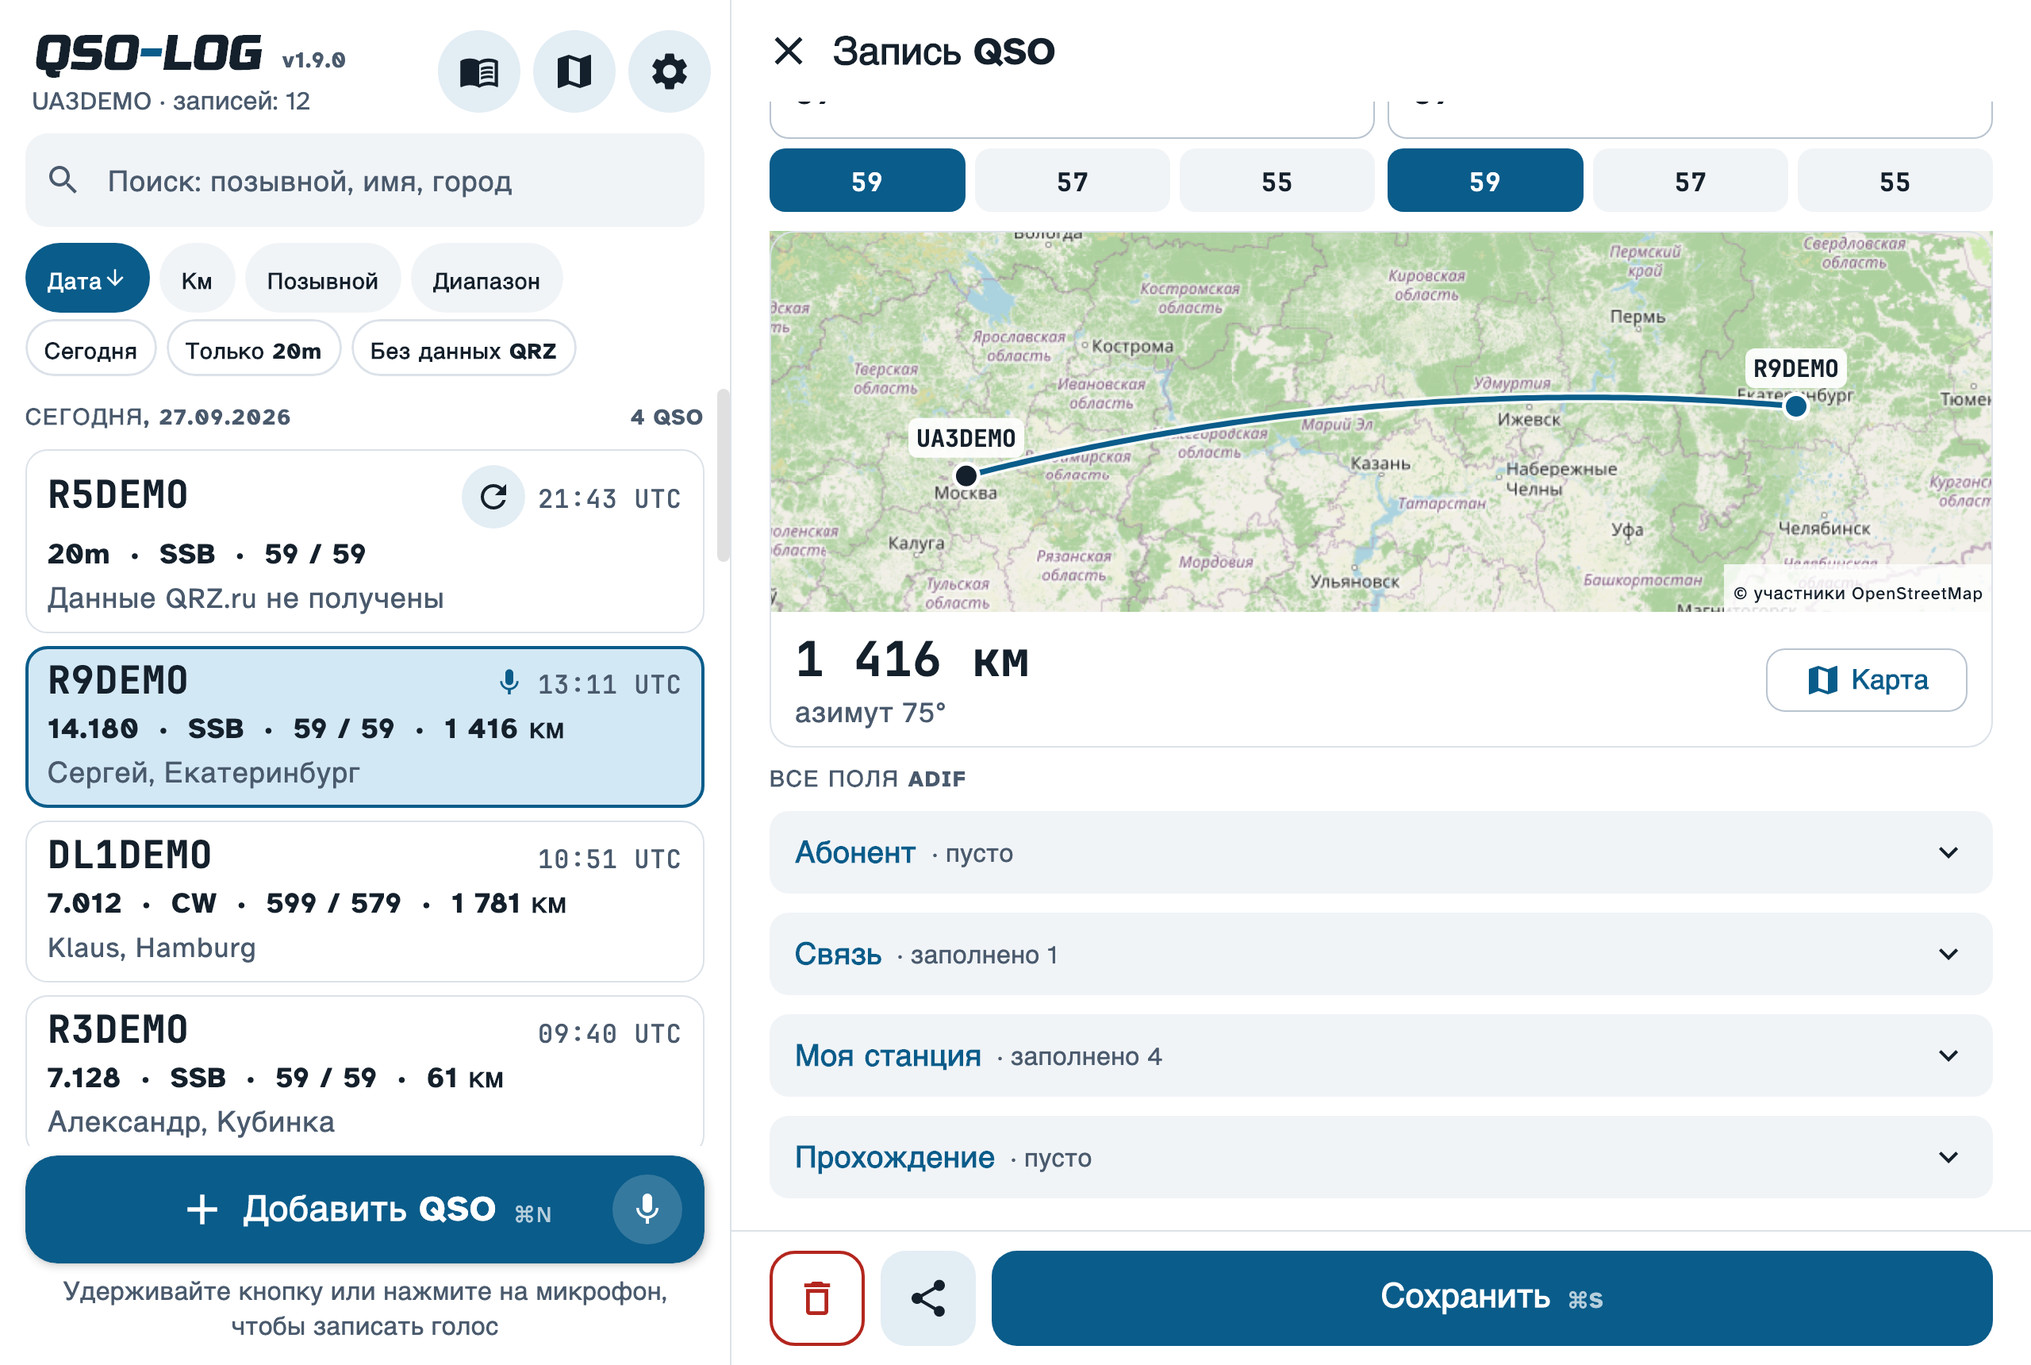
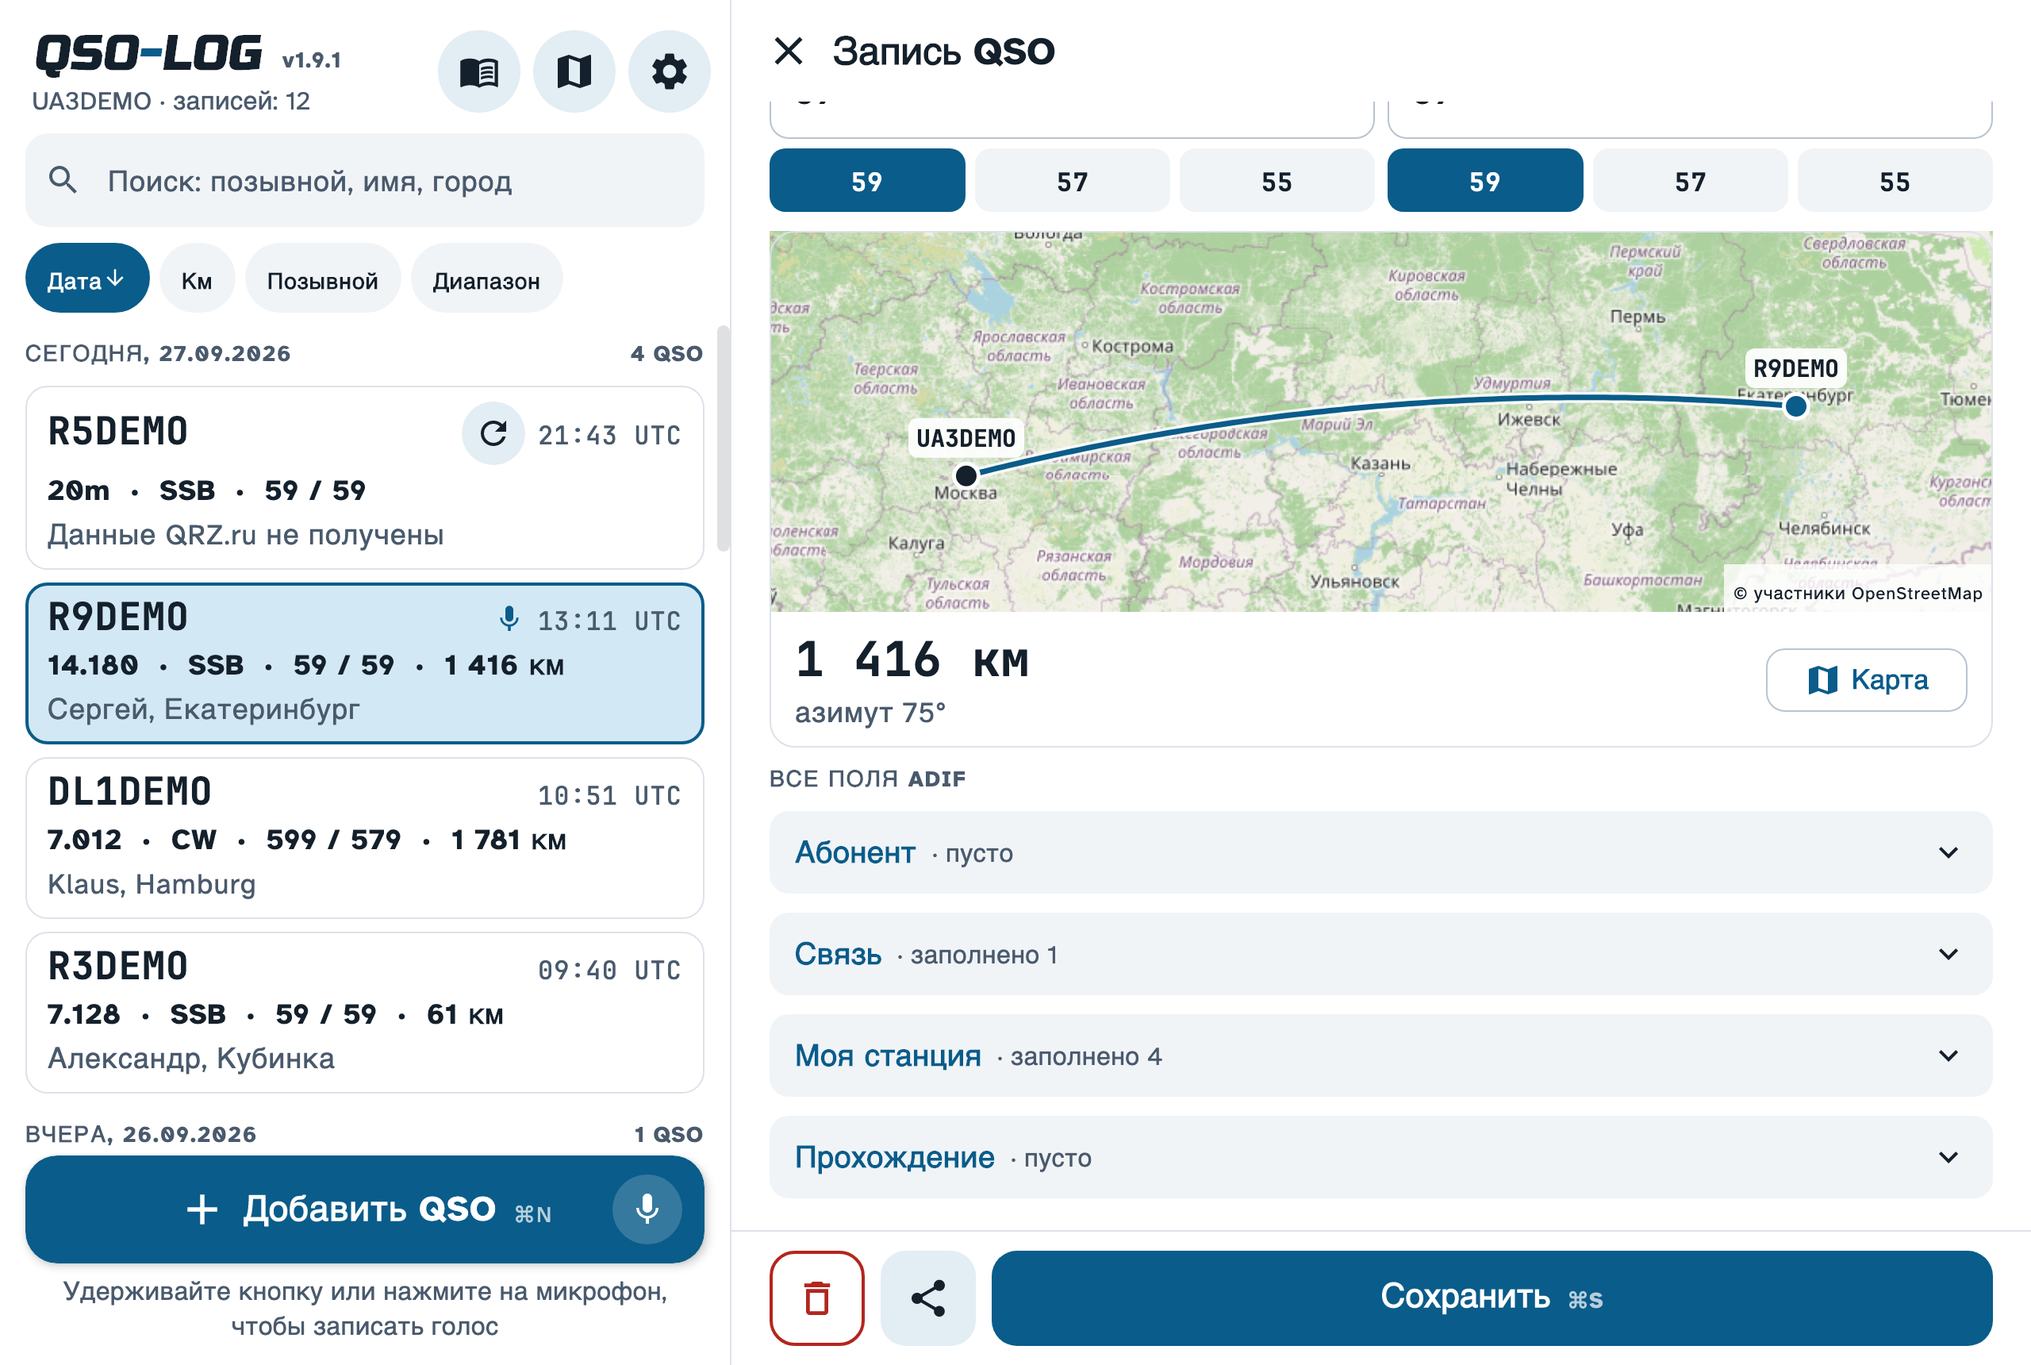
Android 0.24.1, desktop 1.9.1: log keeps only the sort buttons, quick filters removed

Changed region(s): [[0.0, 0.2465, 0.375, 0.8628], [0.3125, 0.8012, 0.3438, 0.832]]

diff --git a/app/src/main/java/ru/r3xed/qsolog/ui/LogScreen.kt b/app/src/main/java/ru/r3xed/qsolog/ui/LogScreen.kt
@@ -3,7 +3,6 @@ package ru.r3xed.qsolog.ui
 import androidx.compose.material.icons.automirrored.filled.MenuBook
 import ru.r3xed.qsolog.tr
 import androidx.compose.material.icons.filled.Check
-import ru.r3xed.qsolog.LogFilter
 import androidx.activity.compose.BackHandler
 import androidx.compose.ui.unit.TextUnit
 import androidx.compose.ui.text.rememberTextMeasurer
@@ -165,8 +164,6 @@ fun LogScreen(
             )
 
             if (vm.qsos.isEmpty()) {
-                // A filter that left nothing: keep the bar so it can be switched off.
-                if (vm.filters.isNotEmpty()) SortBar(vm)
                 Box(Modifier.weight(1f)) { EmptyLog(vm) }
             } else {
                 SortBar(vm)
@@ -201,10 +198,7 @@ fun LogScreen(
 private fun EmptyLog(vm: AppViewModel) {
     val x = LocalExtra.current
     Column(Modifier.fillMaxWidth().padding(32.dp), verticalArrangement = Arrangement.spacedBy(8.dp)) {
-        if (vm.query.isBlank() && vm.filters.isNotEmpty()) {
-            Text(tr("Под выбранные фильтры записей нет"), style = MaterialTheme.typography.titleLarge)
-            Text(tr("Снимите фильтр кнопкой над списком."), style = MaterialTheme.typography.bodyLarge, color = x.muted)
-        } else if (vm.query.isNotBlank()) {
+        if (vm.query.isNotBlank()) {
             Text(tr("В вашем журнале ничего не найдено"), style = MaterialTheme.typography.titleLarge)
             // A callsign-like search goes on to QRZ.ru; a found station opens a new card by itself.
             when (val s = vm.searchLookup) {
@@ -282,7 +276,6 @@ private fun groupAndSort(list: List<Qso>, by: SortBy, desc: Boolean): List<Group
 @Composable
 private fun SortBar(vm: AppViewModel) {
     val x = LocalExtra.current
-    Column {
     Row(
         Modifier.fillMaxWidth().horizontalScroll(rememberScrollState()).padding(horizontal = 16.dp, vertical = 4.dp),
         horizontalArrangement = Arrangement.spacedBy(6.dp),
@@ -310,35 +303,6 @@ private fun SortBar(vm: AppViewModel) {
                 }
             }
         }
-    }
-    // Quick filters: a second row under the sort buttons.
-    Row(
-        Modifier.fillMaxWidth().horizontalScroll(rememberScrollState()).padding(start = 16.dp, end = 16.dp, bottom = 4.dp),
-        horizontalArrangement = Arrangement.spacedBy(6.dp),
-    ) {
-        LogFilter.entries.forEach { flt ->
-            val band = vm.currentBand
-            if (flt == LogFilter.BAND && band.isBlank()) return@forEach
-            val label = if (flt == LogFilter.BAND) tr("Только %s", band) else flt.label
-            val on = flt in vm.filters
-            val fg = if (on) MaterialTheme.colorScheme.onSecondaryContainer else MaterialTheme.colorScheme.onSurface
-            Row(
-                Modifier.height(36.dp)
-                    .clip(RoundedCornerShape(18.dp))
-                    .background(if (on) MaterialTheme.colorScheme.secondaryContainer else Color.Transparent)
-                    .border(1.5.dp, if (on) MaterialTheme.colorScheme.secondary else x.line, RoundedCornerShape(18.dp))
-                    .clickable(onClickLabel = if (on) tr("Снять фильтр: %s", label) else tr("Фильтр: %s", label)) { vm.toggleFilter(flt) }
-                    .padding(horizontal = 12.dp),
-                verticalAlignment = Alignment.CenterVertically,
-            ) {
-                if (on) {
-                    Icon(Icons.Filled.Check, null, Modifier.size(16.dp), tint = fg)
-                    Spacer(Modifier.width(4.dp))
-                }
-                Text(label, fontSize = 14.sp, fontWeight = FontWeight.Bold, color = fg, maxLines = 1, softWrap = false)
-            }
-        }
-    }
     }
 }
 

diff --git a/desktop/src/main/kotlin/ru/r3xed/qsolog/ui/LogPane.kt b/desktop/src/main/kotlin/ru/r3xed/qsolog/ui/LogPane.kt
@@ -3,7 +3,6 @@ package ru.r3xed.qsolog.ui
 import androidx.compose.material.icons.automirrored.filled.MenuBook
 import ru.r3xed.qsolog.tr
 import androidx.compose.material.icons.filled.Check
-import ru.r3xed.qsolog.LogFilter
 import androidx.compose.material3.DropdownMenu
 import androidx.compose.material3.DropdownMenuItem
 import androidx.compose.material3.TextButton
@@ -158,13 +157,8 @@ fun LogPane(state: AppState, shortcut: String, onExportSelected: () -> Unit, mod
 
 
         if (state.qsos.isEmpty()) {
-            // A filter that left nothing: keep the bar so it can be switched off.
-            if (state.filters.isNotEmpty()) SortBar(state)
             Column(Modifier.weight(1f).fillMaxWidth().padding(24.dp), verticalArrangement = Arrangement.spacedBy(8.dp)) {
-                if (state.query.isBlank() && state.filters.isNotEmpty()) {
-                    Text(tr("Под выбранные фильтры записей нет"), style = MaterialTheme.typography.titleLarge)
-                    Text(tr("Снимите фильтр кнопкой над списком."), style = MaterialTheme.typography.bodyLarge, color = x.muted)
-                } else if (state.query.isNotBlank()) {
+                if (state.query.isNotBlank()) {
                     Text(tr("В вашем журнале ничего не найдено"), style = MaterialTheme.typography.titleLarge)
                     // A callsign-like search goes on to QRZ.ru; a found station opens a new card by itself.
                     when (val s = state.searchLookup) {
@@ -271,7 +265,6 @@ private fun groupAndSort(list: List<Qso>, by: SortBy, desc: Boolean): List<Group
 @Composable
 private fun SortBar(state: AppState) {
     val x = LocalExtra.current
-    Column {
     Row(
         Modifier.fillMaxWidth().horizontalScroll(rememberScrollState()).padding(horizontal = 16.dp, vertical = 4.dp),
         horizontalArrangement = Arrangement.spacedBy(6.dp),
@@ -299,35 +292,6 @@ private fun SortBar(state: AppState) {
                 }
             }
         }
-    }
-    // Quick filters: a second row under the sort buttons.
-    Row(
-        Modifier.fillMaxWidth().horizontalScroll(rememberScrollState()).padding(start = 16.dp, end = 16.dp, bottom = 4.dp),
-        horizontalArrangement = Arrangement.spacedBy(6.dp),
-    ) {
-        LogFilter.entries.forEach { flt ->
-            val band = state.currentBand
-            if (flt == LogFilter.BAND && band.isBlank()) return@forEach
-            val label = if (flt == LogFilter.BAND) tr("Только %s", band) else flt.label
-            val on = flt in state.filters
-            val fg = if (on) MaterialTheme.colorScheme.onSecondaryContainer else MaterialTheme.colorScheme.onSurface
-            Row(
-                Modifier.height(36.dp)
-                    .clip(RoundedCornerShape(18.dp))
-                    .background(if (on) MaterialTheme.colorScheme.secondaryContainer else Color.Transparent)
-                    .border(1.5.dp, if (on) MaterialTheme.colorScheme.secondary else x.line, RoundedCornerShape(18.dp))
-                    .clickable(onClickLabel = if (on) tr("Снять фильтр: %s", label) else tr("Фильтр: %s", label)) { state.toggleFilter(flt) }
-                    .padding(horizontal = 12.dp),
-                verticalAlignment = Alignment.CenterVertically,
-            ) {
-                if (on) {
-                    Icon(Icons.Filled.Check, null, Modifier.size(16.dp), tint = fg)
-                    Spacer(Modifier.width(4.dp))
-                }
-                Text(label, fontSize = 14.sp, fontWeight = FontWeight.Bold, color = fg, maxLines = 1, softWrap = false)
-            }
-        }
-    }
     }
 }
 

diff --git a/docs/index.html b/docs/index.html
@@ -97,7 +97,7 @@ footer{padding:28px 0 48px;color:var(--muted);font-size:.95rem;border-top:1px so
       <div class="card"><h3><span data-l="ru">Расстояние и карты</span><span data-l="en">Distance and maps</span></h3><p><span data-l="ru">Азимут и трасса по дуге большого круга, карта всех абонентов журнала на OpenStreetMap.</span><span data-l="en">Bearing and great-circle path, a map of every station in your log on OpenStreetMap.</span></p></div>
       <div class="card"><h3>LoTW · QRZ.com · eQSL · Club Log</h3><p><span data-l="ru">Выгрузка новых связей в онлайн-журналы одной кнопкой; LoTW — через TQSL.</span><span data-l="en">Upload new QSOs to online logbooks with one button; LoTW via TQSL.</span></p></div>
       <div class="card"><h3><span data-l="ru">Справка</span><span data-l="en">Reference</span></h3><p><span data-l="ru">Диапазоны РФ и план IARU, частоты FT8 и маяков, Морзе, Q-коды, калькуляторы dBm/ЭИИМ, потерь в кабеле, КСВ и антенн, страна и регион по позывному без интернета.</span><span data-l="en">Russian bands and the IARU plan, FT8 and beacon frequencies, Morse, Q codes, calculators for dBm/EIRP, cable loss, SWR and antennas, country and region by callsign offline.</span></p></div>
-      <div class="card"><h3><span data-l="ru">Журнал</span><span data-l="en">Log</span></h3><p><span data-l="ru">Поиск, сортировка, быстрые фильтры «Сегодня», «Этот диапазон», «Без данных QRZ».</span><span data-l="en">Search, sorting and quick filters: Today, This band, No QRZ data.</span></p></div>
+      <div class="card"><h3><span data-l="ru">Журнал</span><span data-l="en">Log</span></h3><p><span data-l="ru">Поиск и сортировка по дате, расстоянию, позывному и диапазону.</span><span data-l="en">Search and sorting by date, distance, callsign and band.</span></p></div>
       <div class="card"><h3><span data-l="ru">ADIF · ЕРМАК · Cabrillo</span><span data-l="en">ADIF · ERMAK · Cabrillo</span></h3><p><span data-l="ru">Обмен с LogHX, UR5EQF, N1MM и между телефоном и ПК; отчёты для российских и международных соревнований.</span><span data-l="en">Exchange with LogHX, UR5EQF, N1MM and between phone and PC; reports for Russian and international contests.</span></p></div>
     </div>
   </section>

diff --git a/app/src/main/java/ru/r3xed/qsolog/AppViewModel.kt b/app/src/main/java/ru/r3xed/qsolog/AppViewModel.kt
@@ -87,15 +87,6 @@ sealed interface UpdateState {
     data class Failed(val message: String) : UpdateState
 }
 
-enum class LogFilter(private val ru: String) {
-    TODAY("Сегодня"), // no-tr
-    BAND("Этот диапазон"), // no-tr
-    PENDING("Без данных QRZ"), // no-tr
-    ;
-
-    val label: String get() = tr(ru)
-}
-
 enum class SortBy(private val ru: String, val defaultDesc: Boolean) {
     DATE("Дата", true), // no-tr
     DISTANCE("Км", true), // no-tr
@@ -449,32 +440,8 @@ class AppViewModel(app: Application) : AndroidViewModel(app) {
                 all to if (query.isBlank()) all else db.all(query)
             }
             allQsos = all
-            qsos = applyFilters(list, all)
+            qsos = list
             total = all.size
-        }
-    }
-
-    // ---------- quick filters over the log ----------
-
-    /** Quick filters above the list; several can be on at once, the search applies on top. */
-    var filters by mutableStateOf<Set<LogFilter>>(emptySet()); private set
-
-    fun toggleFilter(f: LogFilter) {
-        filters = if (f in filters) filters - f else filters + f
-        reload()
-    }
-
-    /** "Этот диапазон": the band of the most recent contact, i.e. the one being worked now. */
-    val currentBand: String get() = allQsos.maxByOrNull { it.timeUtc }?.band.orEmpty()
-
-    private fun applyFilters(list: List<Qso>, all: List<Qso>): List<Qso> {
-        if (filters.isEmpty()) return list
-        val today = DATE_FMT.format(LocalDateTime.now(ZoneOffset.UTC))
-        val band = all.maxByOrNull { it.timeUtc }?.band.orEmpty()
-        return list.filter { q ->
-            (LogFilter.TODAY !in filters || DATE_FMT.format(utc(q.timeUtc)) == today) &&
-                (LogFilter.BAND !in filters || q.band.equals(band, ignoreCase = true)) &&
-                (LogFilter.PENDING !in filters || q.pendingLookup)
         }
     }
 

diff --git a/desktop/src/main/kotlin/ru/r3xed/qsolog/AppState.kt b/desktop/src/main/kotlin/ru/r3xed/qsolog/AppState.kt
@@ -84,15 +84,6 @@ sealed interface UpdateState {
     data class Failed(val message: String) : UpdateState
 }
 
-enum class LogFilter(private val ru: String) {
-    TODAY("Сегодня"), // no-tr
-    BAND("Этот диапазон"), // no-tr
-    PENDING("Без данных QRZ"), // no-tr
-    ;
-
-    val label: String get() = tr(ru)
-}
-
 enum class SortBy(private val ru: String, val defaultDesc: Boolean) {
     DATE("Дата", true), // no-tr
     DISTANCE("Км", true), // no-tr
@@ -362,32 +353,8 @@ class AppState {
                 all to if (query.isBlank()) all else db.all(query)
             }
             allQsos = all
-            qsos = applyFilters(list, all)
+            qsos = list
             total = all.size
-        }
-    }
-
-    // ---------- quick filters over the log ----------
-
-    /** Quick filters above the list; several can be on at once, the search applies on top. */
-    var filters by mutableStateOf<Set<LogFilter>>(emptySet()); private set
-
-    fun toggleFilter(f: LogFilter) {
-        filters = if (f in filters) filters - f else filters + f
-        reload()
-    }
-
-    /** "Этот диапазон": the band of the most recent contact, i.e. the one being worked now. */
-    val currentBand: String get() = allQsos.maxByOrNull { it.timeUtc }?.band.orEmpty()
-
-    private fun applyFilters(list: List<Qso>, all: List<Qso>): List<Qso> {
-        if (filters.isEmpty()) return list
-        val today = DATE_FMT.format(LocalDateTime.now(ZoneOffset.UTC))
-        val band = all.maxByOrNull { it.timeUtc }?.band.orEmpty()
-        return list.filter { q ->
-            (LogFilter.TODAY !in filters || DATE_FMT.format(utc(q.timeUtc)) == today) &&
-                (LogFilter.BAND !in filters || q.band.equals(band, ignoreCase = true)) &&
-                (LogFilter.PENDING !in filters || q.pendingLookup)
         }
     }
 

diff --git a/shared/src/main/kotlin/ru/r3xed/qsolog/I18nEn.kt b/shared/src/main/kotlin/ru/r3xed/qsolog/I18nEn.kt
@@ -9,9 +9,6 @@ internal val EN: Map<String, String> = hashMapOf(
     "Как в системе" to "As in system",
     "Светлая" to "Light",
     "Тёмная" to "Dark",
-    "Сегодня" to "Today",
-    "Этот диапазон" to "This band",
-    "Без данных QRZ" to "No QRZ data",
     "Дата" to "Date",
     "Км" to "Km",
     "Позывной" to "Callsign",
@@ -61,8 +58,6 @@ internal val EN: Map<String, String> = hashMapOf(
     "Настройки" to "Settings",
     "Поиск: позывной, имя, город" to "Search: callsign, name, city",
     "Очистить поиск" to "Clear search",
-    "Под выбранные фильтры записей нет" to "No records match the filters",
-    "Снимите фильтр кнопкой над списком." to "Turn a filter off with its button above the list.",
     "В вашем журнале ничего не найдено" to "Nothing found in your log",
     "Ищу %s на QRZ.ru…" to "Looking up %s on QRZ.ru…",
     "На QRZ.ru позывного %s тоже нет." to "%s is not on QRZ.ru either.",
@@ -79,9 +74,6 @@ internal val EN: Map<String, String> = hashMapOf(
     "Сортировать: %s" to "Sort: %s",
     "по убыванию" to "descending",
     "по возрастанию" to "ascending",
-    "Только %s" to "Only %s",
-    "Снять фильтр: %s" to "Remove filter: %s",
-    "Фильтр: %s" to "Filter: %s",
     "Отменить выбор" to "Cancel selection",
     "Выбрано: %s" to "Selected: %s",
     "Нажимайте записи, чтобы добавить" to "Tap records to add them",
